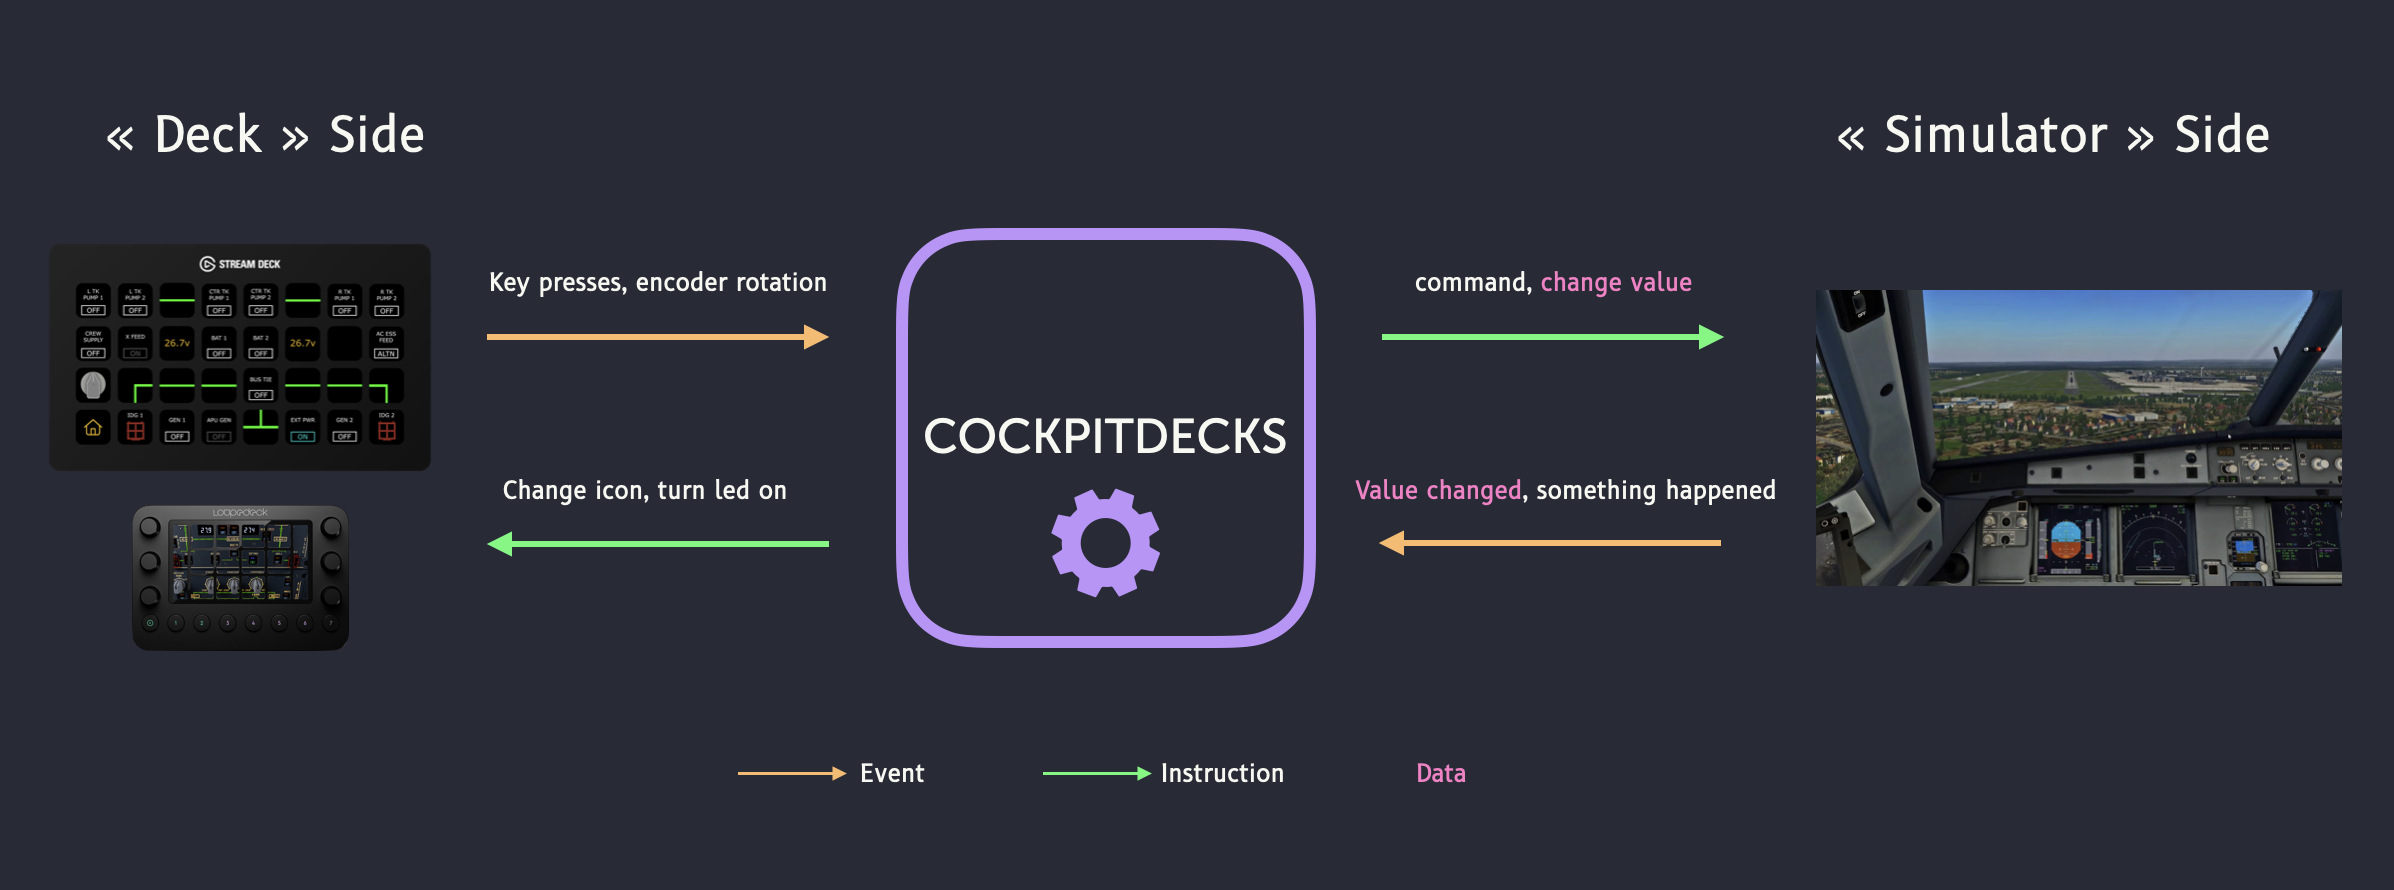
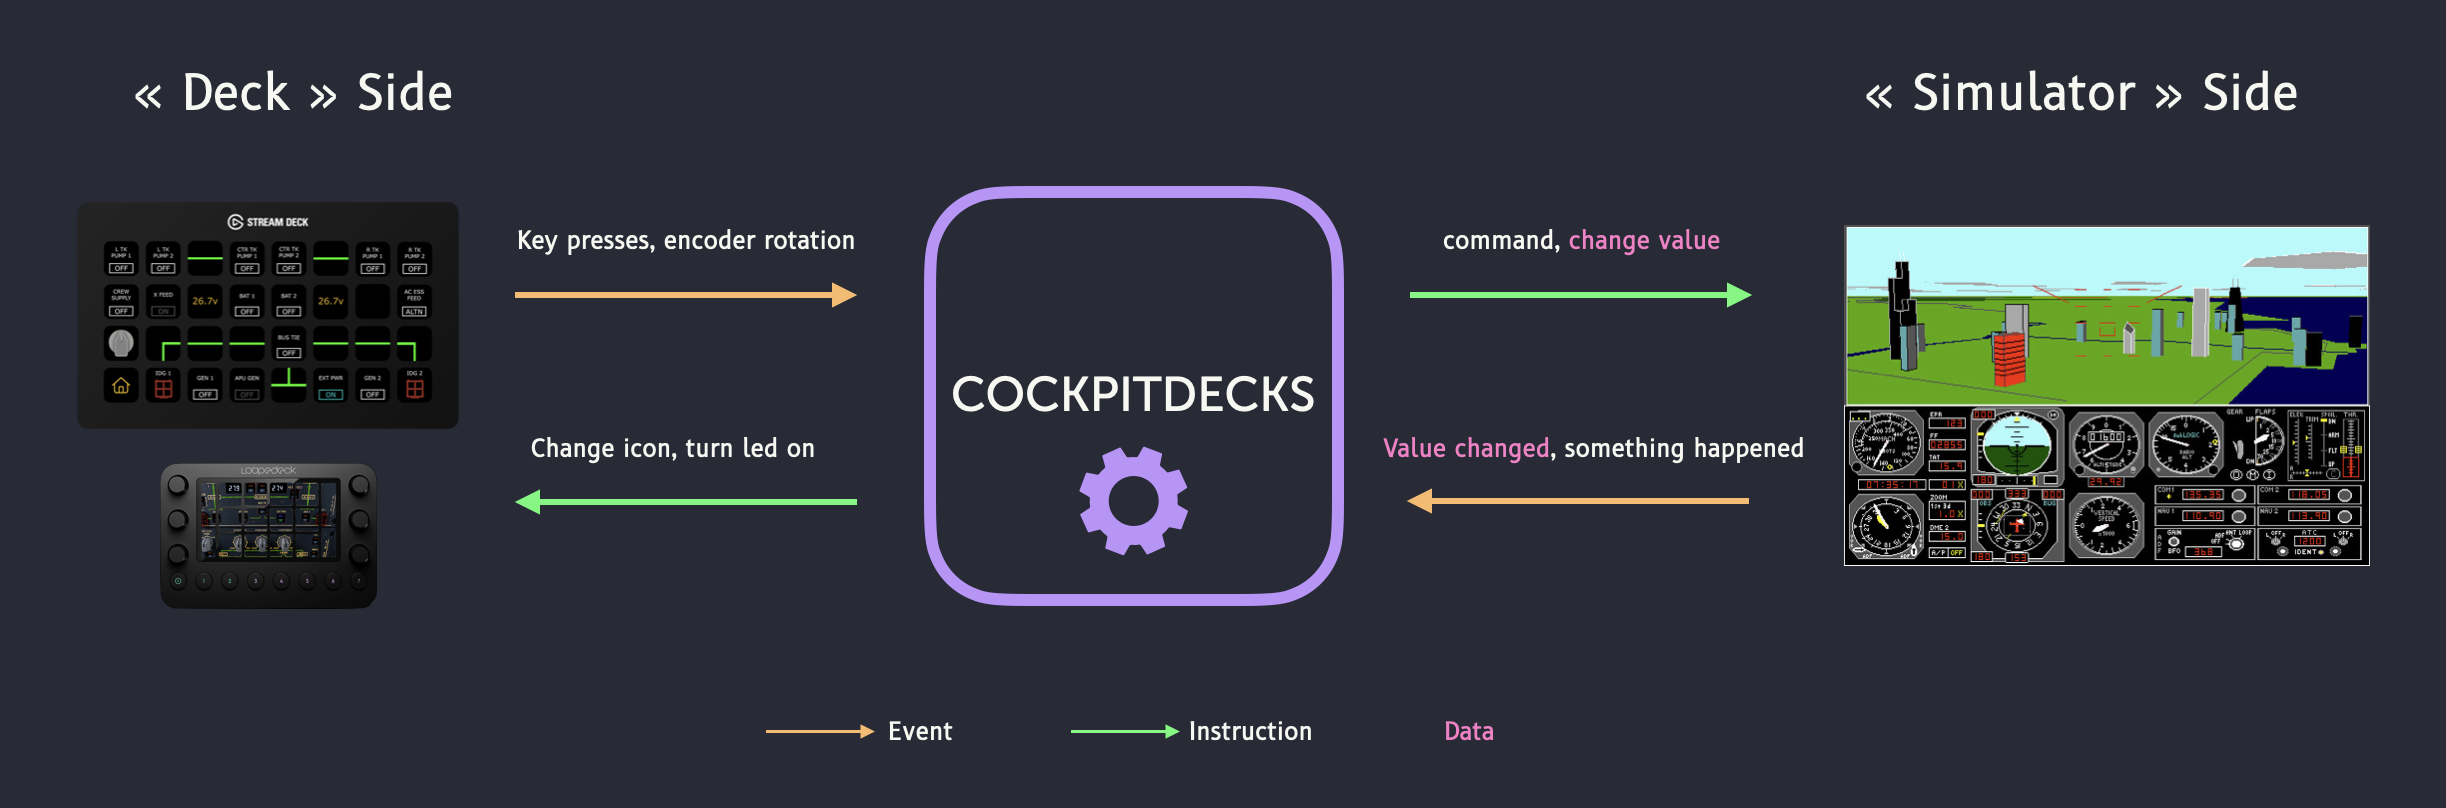
adjusted after new toc

diff --git a/docs/Running/Installation.md b/docs/Running/Installation.md
@@ -53,34 +53,6 @@ Valid installable extension packages (between the `[` `]`, comma separated, no s
 > [!WARNING] Cockpitdecks X-Plane Helper Plugin
 > You can do this step later, but some functions will not work or be available inside Cockpitdecks.
 
-### Why an Additional Plugin?
-
-X-Plane UDP has some shortcomings that prevent some operations with decks.
-
-To circumvent this, Cockpitdecks provides a small python plugin called the Cockpitdecks Helper plugin, that need to be installed into X-Plane. The Cockpitdecks Helper plugin will execute some instructions on behalf of the Cockpitdecks application. Cockpitdecks Helper plugin just need to be installed and will provide its services to Cockpitdecks.
-
-If not installed, some of the commands inside Cockpitdecks will work properly.
-
-Cockpitdecks Helper plugin is an _in-process_ plugin, running inside X-Plane, while Cockpitdecks is an _out-of-process_ executable running independently of X-Plane.
-
-Here are the functions the Cockpitdecks Plugin offers to complement X-Plane UDP access.
-
-#### Long command execution
-
-Some commands cannot be executed directly through UDP. For exemples, commands that have a *start* and an *end* cannot be started or ended though UDP. It is an X-Plane UDP limitation.
-
-To execute long press commands, the **Cockpitdecks Helper** plugin needs to be installed in XPPython3 `PythonPlugins` folder.
-
-#### String Datarefs
-
-X-Plane UDP only allows to fetch dataref values one by one. Retrieving a string is a tedious process because each character has to be fetched individually.
-
-To collect string-typed datarefs, the **Cockpitdecks Helper** plugin needs to be installed in XPPython3 `PythonPlugins` folder. It collects the entire string and then broadcasts it as a whole string, not individual characters.
-
-See [[String Datarefs]] for details about this.
-
-### Cockpitdecks Helper Plugin Installation
-
 Cockpitdecks Helper Plugin is written in the python language. So it needs the [XPPython3](https://xppython3.readthedocs.io/) X-Plane plugin installed. XPPython3 plugin allow for execution of python code *inside* X-Plane.
 
 Cockpitdecks XPPython3 plugin is located in the
@@ -91,7 +63,7 @@ Cockpitdecks XPPython3 plugin is located in the
 
 folder in the source code. There is a single file.
 
-To install both services described above, copy the plugin file to:
+To install, **copy** the plugin file to:
 
 ```shell
 ... /X-Plane 12/resources/plugins/PythonPlugins/PI_cockpitdecks.py
@@ -101,7 +73,7 @@ and ask XPPython3 plugin to reload its scripts.
 
 ## Install Aircraft Specific `deckconfig` Folders
 
-Duane, a Cockpitdecks aficionado has realized several configurations for several aircrafts.
+[Duane](https://github.com/dlicudi), a Cockpitdecks aficionado has realized several configurations for several aircrafts.
 
 You can [find them here](https://github.com/dlicudi/cockpitdecks-configs), download them and install them in your aircraft folder.
 

diff --git a/docs/index.md b/docs/index.md
@@ -2,26 +2,24 @@
 
 Cockpitdecks is an application to use *decks* connected to a computer with X-Plane flight simulator.
 
-![[deck-simulator.png]]
+![[deck-simulator2.png|600]]
 
-The following make and models have been tested and are known to work with Cockpitdecks:
+The following make and models of decks have been tested and are known to work with Cockpitdecks:
 
 - [Elgato Stream Deck](https://www.elgato.com/us/en/s/welcome-to-stream-deck) (all models work: Small, Mk.2, XL, Plus, and Neo)
 - [Loupedeck Loupedeck Live](https://loupedeck.com/products/loupedeck-live/) (Loupedeck Live S, Loupedeck+, Loupedeck CT should also work but have not been tested)
 - [Berhinger X-Touch Mini](https://www.behringer.com/product.html?modelCode=0808-AAF)
 
-There also are *Web Decks*, an emulator of the above decks in a web page, in the context of this application. Yes, you read it, you can now have any of the above deck, reproduced on a tablet, to use with X-Plane flight simulator. For free.
+Cockpitdecks also provides *Web Decks*, an emulator of the above decks in a web page, in the context of this application. Yes, you read it, you can now have any of the above deck, reproduced on a tablet, to use with X-Plane flight simulator. For free.
 
 ![[web-deck-intro.png|600]]
 
 Cockpitdecks can run on the same computer as X-Plane, or a remote computer, network-connected to X-Plane.
 
-You can now proceed to the discovery of Cockpitdecks [[Concepts]], or directly jump to the [[Cockpit]] that holds all your decks. Or if you are impatient to try Cockpitdecks, head for [[Installation]]
+You can now proceed to the discovery of Cockpitdecks [[Concepts]], or directly jump to the [[Cockpit]] that holds all your decks. Or if you are impatient to try Cockpitdecks, head for [[Installation]].
 
 **Post Scriptum**
 
-Cockpitdecks currently only connects to X-Plane flight simulator. However, hooks are ready to connect to other simulators, like Microsoft Flight Simulator. Packages like [pysimconnect](https://github.com/patricksurry/pysimconnect) can be used to bridge Cockpitdecks and MSFS. Unfortunately, these packages only run on Microsoft Window platform because they require MSFS SDK only available on the MS Window platform.
+Cockpitdecks currently only connects to X-Plane flight simulator. However, hooks are ready to connect to other simulators, like Microsoft Flight Simulator. Packages like [pysimconnect](https://github.com/patricksurry/pysimconnect) can be used to bridge Cockpitdecks and MSFS. Unfortunately, these packages only run on Microsoft Window platform because they require MSFS SDK only available on the MS Window platform. If a developer want to create the MSFS Cockpitdecks plugin, please contact me.
 
 In this respect, X-Plane and Cockpitdecks, which runs on MS Windows, MacOS, and Linux, and accept interaction through network ports is a far more open.
-
-If a developer want to create the MSFS Cockpitdecks plugin, please contact me.

diff --git a/docs/Extending/Reference/X-Plane/X-Plane.md b/docs/Extending/Reference/X-Plane/X-Plane.md
@@ -1,0 +1,18 @@
+[X-Plane](https://en.wikipedia.org/wiki/X-Plane_(simulator)) is the name of a flight simulation software edited by [Laminar Research](https://www.x-plane.com).
+
+For developers, X-Plane offers the following facilities:
+
+- A Developer API which consists of library calls to integrate a development inside X-Plane.
+- A network API, which outputs simulator data in UDP packets, and accepts on input some basic instructions to execute named commands, or change simulation internal variables and values.
+- Another network API, a Web REST API to access internal variables and values.
+- Most, if not all, configuration files are *documented* text files.
+
+X-Plane maintains and exposes a large number of internal variables, called *datarefs*. X-Plane. For a running instance of X-Plane, there can be as much as 10,000 datarefs.
+
+X-plane also produces a limited number of internal messages to notify of occurence of special events like another plane has been loaded by the user, orr the VR mode has been enabled. X-Plane messages are related to the X-Plane environment and program. There is no message related to the simulation itself. There is no message to tell a plane has taken off, or brought its landing gear down. There are only messages related to the program: New scenery was loaded, new plane was loaded, new sound bank was loaded, X-Plane has crashed (*!*), etc.
+
+Cockpitdecks has three  methods to get variable values from X-Plane.
+
+1. On startup, when a fairly static value needs to be fetched, the (newer) Web REST API is used to get the value of a dataref.
+2. The regular method to get values of internal datarefs is a two-step process: First Cockpitdecks notifies X-Plane that it is interested in getting the value of a give dataref, and second, X-Plane sends the value at regular intervals and Cockpitdecks capture the value and interpret it.
+3. String values that can change (annunciator displayed strings, path to resources, etc.) are collected by s special, dedicated X-Plane plugin that broadcast on the network (UDP) the values of these variables at regular time interval. Cockpitdecks captures and interpret the values of these string datarefs. This mechanism is limited to string-typed datarefs.

diff --git a/docs/Extending/Reference/X-Plane/X-Plane Cockpitdecks Plugin.md b/docs/Extending/Reference/X-Plane/X-Plane Cockpitdecks Plugin.md
@@ -1,3 +1,31 @@
+### Why an Additional Plugin?
+
+X-Plane UDP has some shortcomings that prevent some operations with decks.
+
+To circumvent this, Cockpitdecks provides a small python plugin called the Cockpitdecks Helper plugin, that need to be installed into X-Plane. The Cockpitdecks Helper plugin will execute some instructions on behalf of the Cockpitdecks application. Cockpitdecks Helper plugin just need to be installed and will provide its services to Cockpitdecks.
+
+If not installed, some of the commands inside Cockpitdecks will work properly.
+
+Cockpitdecks Helper plugin is an _in-process_ plugin, running inside X-Plane, while Cockpitdecks is an _out-of-process_ executable running independently of X-Plane.
+
+Here are the functions the Cockpitdecks Plugin offers to complement X-Plane UDP access.
+
+#### Long command execution
+
+Some commands cannot be executed directly through UDP. For exemples, commands that have a *start* and an *end* cannot be started or ended though UDP. It is an X-Plane UDP limitation.
+
+To execute long press commands, the **Cockpitdecks Helper** plugin needs to be installed in XPPython3 `PythonPlugins` folder.
+
+#### String Datarefs
+
+X-Plane UDP only allows to fetch dataref values one by one. Retrieving a string is a tedious process because each character has to be fetched individually.
+
+To collect string-typed datarefs, the **Cockpitdecks Helper** plugin needs to be installed in XPPython3 `PythonPlugins` folder. It collects the entire string and then broadcasts it as a whole string, not individual characters.
+
+See [[String Datarefs]] for details about this.
+
+---
+
 To circumvent limitations of UDP, a plugin is necessary to execute commands that require to be activated for a long time (like long push commands).
 
 For each long push command, the plugin will create a pair of commands that will be issued at the beginning of the command, and at the end.

diff --git a/docs/Extending/Web Decks.md b/docs/Extending/Web Decks.md
@@ -229,3 +229,13 @@ Cost: 1 touch screen, glue. Protection helmet optional, depending on your trust 
 You can consider web decks as live, interactive, responsive images. You can press buttons on the image, Cockpitdecks will adjust the image and its overlays to reflect X-Plane status.
 
 Taxi safely.
+
+# Important Note
+
+As explained, Web Deck were originally created has a development tools to speed up button creation and testing. It was suggested by [Duane](https://github.com/dlicudi).
+
+Once we settle on an architecture, and made critical web-oriented decision (use of HTML Canvas), it took no more that 2 days to get it working! Mainly because of the strict Cockpitdecks architecture and concepts. A few more days were necessary to open up the creation of web decks for Cockpitdecks creators, and imagine [[Hardware Representation]].
+
+As today, Cockpitdecks can work with no physical decks, with just Web Decks, even those that replicate existing deck models like Stream Deck and Loupedeck.
+
+Please note that web deck lead to Instructions. Currently, Instructions are limited to flight simulation to issue commands, change values, etc. Nothing would prevent a developer from creating Instructions that execute command at the operating system level, like opening a file or starting an application.

diff --git a/docs/History.md b/docs/History.md
@@ -13,3 +13,9 @@ A final step was to isolate this software from all device particularities and sp
 Other entities glue things together with concepts like the *Cockpit* with is a collection of one or more deck, and a *Page* that is a grouping of buttons represented at once on a deck.
 
 I hope this piece of software will allow you to make a better desktop cockpit and make your flight simulation more enjoyable.
+
+# See Also
+
+[Bio on X-Plane Forum](https://forums.x-plane.org/index.php?/profile/1019089-marespi/&tab=field_core_pfield_13)
+
+![[a2fs2.jpg|center]]

diff --git a/docs/Extending/Reference/Glossary.md b/docs/Extending/Reference/Glossary.md
@@ -124,3 +124,7 @@ A Dataref is a simulator data inside the X-Plane flight simulator.
 # SimVar
 
 A SimVar is a simulator data from Flight Simulator. There are several types of SimVar. Please refer to the [Flight Simulator SDK](https://docs.flightsimulator.com/html/Introduction/SDK_Overview.htm) for more information.
+
+# See Also
+
+[[History]]
